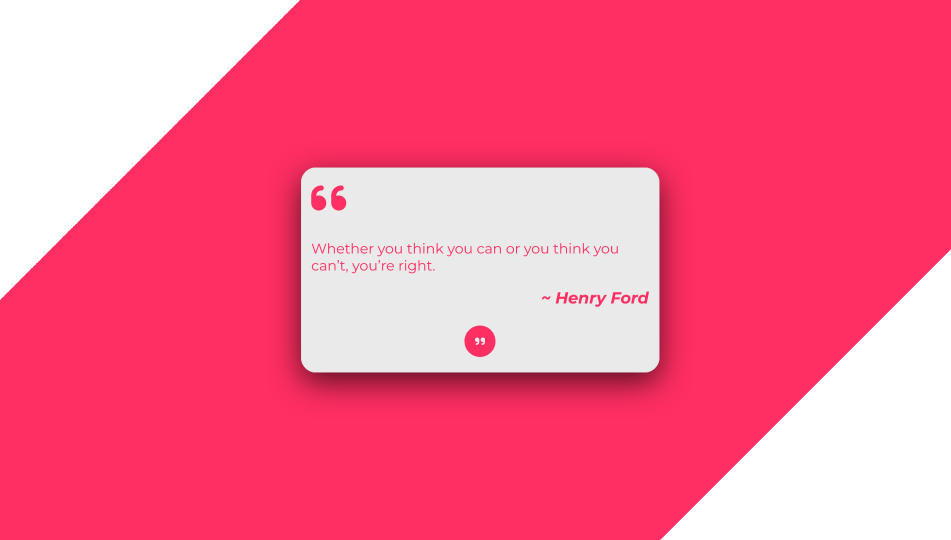
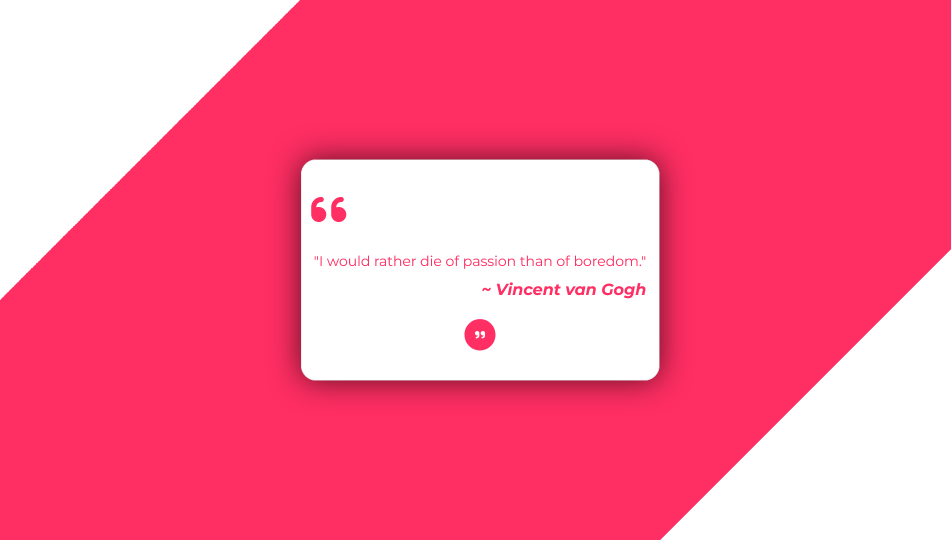
Fixed colors and image in the readme file

Changed region(s): [[0.3049, 0.2667, 0.7014, 0.4148], [0.3354, 0.4444, 0.7014, 0.563], [0.3049, 0.5926, 0.7014, 0.7111]]

diff --git a/src/components/QuoteBox.css b/src/components/QuoteBox.css
@@ -62,7 +62,7 @@
   justify-content: center;
   align-items: center;
   flex-direction: column;
-  background-color: #eaeaea;
+  background-color: white;
   gap: 2rem;
   min-width: 320px;
   height: fit-content;
@@ -71,13 +71,13 @@
   padding: 1rem;
   border-radius: 1.5rem;
   border: 1px solid gainsboro;
-  box-shadow: 0 0 3rem 0 rgba(0, 0, 0, 0.25);
+  box-shadow: 0 0 3rem 0 rgba(0, 0, 0, 0.3);
   transition: all 350ms ease-out;
   min-height: 320px;
 }
 
 .card:hover {
-  box-shadow: 0 1rem 3rem 0px rgba(0, 0, 0, 0.65);
+  box-shadow: 0 0 3rem 0 rgba(0, 0, 0, 0.7);
 }
 
 .card__quote {
@@ -105,7 +105,7 @@
   border-radius: 50%;
   padding: 1rem;
   font-size: 1rem;
-  color: #eaeaea;
+  color: white;
   background-color: #212121;
   cursor: pointer;
   width: 50px;
@@ -118,4 +118,127 @@
 
 .card__button-icon {
   font-size: 1.15rem;
+}
+
+@media only screen and (max-width: 630px) {
+  .card {
+    display: flex;
+    justify-content: center;
+    align-items: center;
+    flex-direction: column;
+    background-color: white;
+    gap: 2rem;
+    min-width: 320px;
+    position: relative;
+    padding: 1rem;
+    border-radius: 1.5rem;
+    border: 1px solid gainsboro;
+    box-shadow: 0 0 3rem 0 rgba(0, 0, 0, 0.25);
+    transition: all 350ms ease-out;
+    min-height: 220px;
+    width: 90%;
+    margin: 0 auto;
+  }
+
+  .card__quote {
+    top: 10px;
+    left: 15px;
+    font-size: 2rem;
+    align-self: flex-start;
+  }
+
+  .card__text p {
+    font-size: 1rem;
+    margin-top: 0.3rem;
+    margin-bottom: 0.2rem;
+  }
+
+  .card__text-author {
+    font-size: 1.2rem;
+    text-align: right;
+    margin-top: 1rem;
+    font-style: italic;
+  }
+
+  .card__button {
+    border: none;
+    border-radius: 50%;
+    padding: 1rem;
+    font-size: 0.8rem;
+    color: white;
+    background-color: #212121;
+    cursor: pointer;
+    width: 40px;
+    height: 40px;
+    display: flex;
+    justify-content: center;
+    align-items: center;
+    margin: 0;
+  }
+
+  .card__button-icon {
+    font-size: 1.15rem;
+  }
+}
+
+@media only screen and (max-width: 400px) {
+  .card {
+    display: flex;
+    justify-content: center;
+    align-items: center;
+    flex-direction: column;
+    background-color: white;
+    gap: 2rem;
+    min-width: 320px;
+    position: relative;
+    padding: 1rem;
+    border-radius: 1.5rem;
+    border: 1px solid gainsboro;
+    box-shadow: 0 0 3rem 0 rgba(0, 0, 0, 0.25);
+    transition: all 350ms ease-out;
+    min-height: 220px;
+    min-width: 45%;
+    max-width: 85%;
+    margin: 0 auto;
+  }
+
+  .card__quote {
+    top: 10px;
+    left: 15px;
+    font-size: 2rem;
+    align-self: flex-start;
+  }
+
+  .card__text p {
+    font-size: 0.9rem;
+    margin-top: 0.3rem;
+    margin-bottom: 0.2rem;
+  }
+
+  .card__text-author {
+    font-size: 1.1rem;
+    text-align: right;
+    margin-top: 1rem;
+    font-style: italic;
+  }
+
+  .card__button {
+    border: none;
+    border-radius: 50%;
+    padding: 1rem;
+    font-size: 0.3rem;
+    color: white;
+    background-color: #212121;
+    cursor: pointer;
+    width: 30px;
+    height: 30px;
+    display: flex;
+    justify-content: center;
+    align-items: center;
+    margin: 0;
+  }
+
+  .card__button-icon {
+    font-size: 1.15rem;
+  }
 }

diff --git a/src/components/QuoteBox.jsx b/src/components/QuoteBox.jsx
@@ -20,7 +20,7 @@ export const QuoteBox = () => {
       <main className='card shadow-drop-2-center'>
         <i className='card__quote fa-solid fa-quote-left'></i>
         <div className='card__text'>
-          <p>{`" ${quotesClean[index].quote} "`}</p>
+          <p>{`"${quotesClean[index].quote}"`}</p>
           <h3 className='card__text-author'>~ {quotesClean[index].author}</h3>
         </div>
         <button
